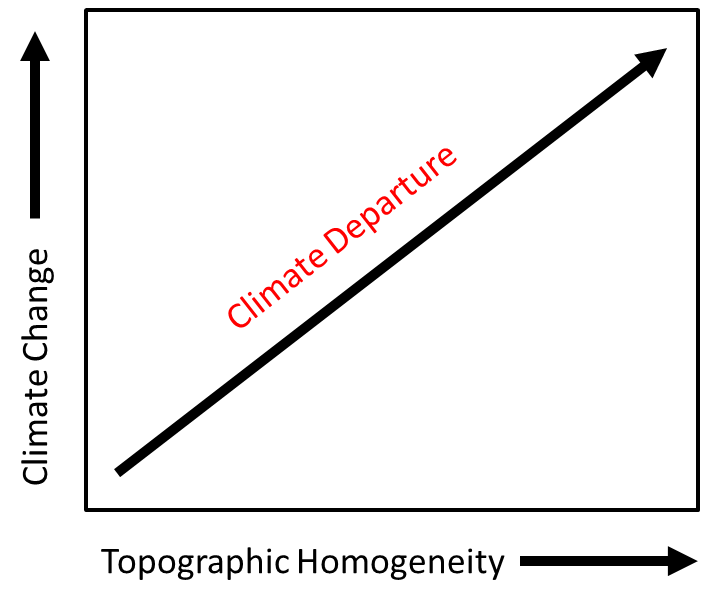
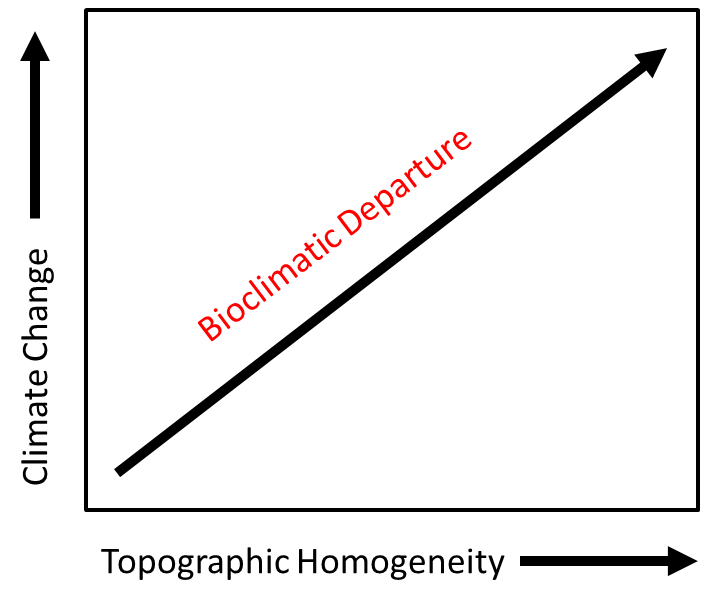
Change Climate Departure to Bioclimatic Departure

Changed region(s): [[0.272, 0.2079, 0.6648, 0.5644]]

diff --git a/static/help/bioclimatic_variables.html b/static/help/bioclimatic_variables.html
@@ -6,7 +6,7 @@
 <div style="width:100%; height: 100%; color: #666666; font-family: 'Lucida Grande', 'Lucida Sans Unicode', Arial, Helvetica, sans-serif; font-size: 16px; overflow-y:auto; overflow-x:hidden">
 <div style="width:710px; margin-left:auto; margin-right:auto;">
 <br>
-For the selected area, Climate Departure helps answer the question...
+For the selected area, Bioclimatic Departure helps answer the question...
 <p>
 <div style="font-size:1.2em; color:#f03800">
 Will the climate that existed in the past exist in the future?  
@@ -26,13 +26,13 @@ Figure 2: In the past, the average max temperatures of the warmest month within 
 </td>
 </table>
 <p>
-The curves in the chart represent the distribution of cell values within the selected reporting unit for the stated climate model, bioclimatic variable, and time period. Climate Departure, as defined here, is a measure of the difference between the historical and future curves. Two future models were selected, a Hot/Wet model (CanESM2) and a Hot/Dry model (HadGEM2-ES).
+The curves in the chart represent the distribution of cell values within the selected reporting unit for the stated climate model, bioclimatic variable, and time period. Bioclimatic Departure, as defined here, is a measure of the difference between the historical and future curves. Two future models were selected, a Hot/Wet model (CanESM2) and a Hot/Dry model (HadGEM2-ES).
 <p>
-In figure 1 (<i>low </i> climate departure), there is a significant amount of overlap between the historical curves and the future curves. Where this is the case, the historical climate conditions within the reporting unit are expected to exist in the future (though not necessarily in the same locations within the reporting unit).
+In figure 1 (<i>low </i> biolimatic departure), there is a significant amount of overlap between the historical curves and the future curves. Where this is the case, the historical climate conditions within the reporting unit are expected to exist in the future (though not necessarily in the same locations within the reporting unit).
 <p>
-In figure 2 (<i>very high</i> climate departure), the future means deviate significantly from the historical means. In fact, there is no overlap between the historical curves and the future curves. This indicates that the historical climate conditions that existed in the selected reporting unit are not expected to exist in the future.
+In figure 2 (<i>very high</i> bioclimatic departure), the future means deviate significantly from the historical means. In fact, there is no overlap between the historical curves and the future curves. This indicates that the historical climate conditions that existed in the selected reporting unit are not expected to exist in the future.
 <p>
-Technically, climate departure is a measure of the number of standard deviations the projected future mean is from the historical mean.
+Technically, bioclimatic departure is a measure of the number of standard deviations the projected future mean is from the historical mean.
 This value, known as a standardized anomaly, is a Z-Score which is calculated as follows:
 <p>
 <div style="width:100%; text-align:center">
@@ -41,12 +41,12 @@ This value, known as a standardized anomaly, is a Z-Score which is calculated as
 <p>
 where d is the difference, xf is the mean of the variable in the future period, xh is the mean of the variable in the historical period, and sxh is the standard deviation of the variable in the historical period.
 <p>
-We then characterize the climate departure for each variable as ranging from "Very Low" to "Very High" using the breaks shown in the table below:
+We then characterize the bioclimatic departure for each variable as ranging from "Very Low" to "Very High" using the breaks shown in the table below:
 <p>
 <div style="width:100%; text-align:center">
 <table class="info_table">
 <tr>
-<th style="color:black"># of Standard Deviations <br>from the Historical</th><th style="color:black">Climate Departure</th></tr>
+<th style="color:black"># of Standard Deviations <br>from the Historical</th><th style="color:black">Bioclimatic Departure</th></tr>
 <tr><td style="color:black; background-color: #F36A6C"> > 3.5 </td><td style="color:black; background-color: #F36A6C"> Very High</td></tr>
 <tr><td style="color:black; background-color: #FDAE61"> 2.5 - 3.5 </td><td style="color:black; background-color: #FDAE61">High</td></tr>
 <tr><td style="color:black; background-color: #FFFFBF"> 1.5 - 2.5 </td><td style="color:black; background-color: #FFFFBF">Moderate</td></tr>
@@ -56,7 +56,7 @@ We then characterize the climate departure for each variable as ranging from "Ve
 </div>
 <p>
 <br>
-We then take the mean average of all twelve climate departure scores (6 bioclimatic variables * 2 climate models). The arrow next to the "Average Climate Departure" bar indicates what that average departure score is for the selected reporting unit:  
+We then take the mean average of all twelve bioclimatic departure scores (6 bioclimatic variables * 2 climate models). The arrow next to the "Average Departure" bar indicates what that average departure score is for the selected reporting unit:
 <p>
 <br>
 <div style="width:100%; text-align:center">
@@ -65,16 +65,16 @@ We then take the mean average of all twelve climate departure scores (6 bioclima
 <p>
 <br>
 <div style="font-size:1.2em; color:#f03800">
-Climate Departure vs. Climate Change 
+Bioclimatic Departure vs. Climate Change
 </div>
 <p>
-Climate Departure is not the same thing as Climate Change. Although all else being equal, lower levels of climate change will contribute to a lower climate departure value. A climate departure value of "Very Low" should be interpreted to mean that the historical climate conditions that existed in the past in the selected reporting unit are expected to exist in the future somewhere in the same reporting unit, although not necessarily in the same locations within that reporting unit. For example, within a selected county, the temperatures that historically existed at lower elevations, may still exist in the same county in the future, but only at higher elevations. In general, reporting units with higher topographic diversity and lower levels of climate change will tend to have lower climate departure values than flat, topographically homogeneous reporting units with high levels of projected climate change.
+Bioclimatic Departure is not the same thing as Climate Change. Although all else being equal, lower levels of climate change will contribute to a lower bioclimatic departure value. A bioclimatic departure value of "Very Low" should be interpreted to mean that the historical climate conditions that existed in the past in the selected reporting unit are expected to exist in the future somewhere in the same reporting unit, although not necessarily in the same locations within that reporting unit. For example, within a selected county, the temperatures that historically existed at lower elevations, may still exist in the same county in the future, but only at higher elevations. In general, reporting units with higher topographic diversity and lower levels of climate change will tend to have lower bioclimatic departure values than flat, topographically homogeneous reporting units with high levels of projected climate change.
 <p>
 <br>
 <div style="width:100%; text-align:center">
 <img style="margin-left:auto; margin-right:auto; width:400px" src="http://climateconsole.org/static_climate_console/help/img/climate_departure.png">
 </div>
-<span style="font-size:.8em">Figure 3: Higher levels of climate change and more topographic homogeneity = higher climate departure </span>
+<span style="font-size:.8em">Figure 3: Higher levels of climate change and more topographic homogeneity = higher bioclimatic departure </span>
 <p>
 <!--
 The curves that appear in the chart show the distribution of cell values within the selected area for a set of bioclimatic variables for the historical period (1971-2000) as well as two future time periods (2016-2045 and 2046-2075). Two future models were selected, a Hot/Wet model (CanESM2) and a Hot/Dry model (HadGEM2-ES). 

diff --git a/CA_Climate_Console_App/templates/ca2.html b/CA_Climate_Console_App/templates/ca2.html
@@ -482,7 +482,7 @@
                     <img title="Click for help" class="tab_help" src="{{STATIC_URL}}img/help2.png" onclick="load_help_content('Bioclimatic Variables', 'bioclimatic_variables.html')">
                 </div>
                 -->
-                <span class="selected_watershed_icon"></span>Climate Departure & Vegetation Outlook<img class="collapse_icon rotate90" src="{{STATIC_URL}}img/collapse_down_arrow.png">
+                <span class="selected_watershed_icon"></span>Bioclimatic Departure & Vegetation Outlook<img class="collapse_icon rotate90" src="{{STATIC_URL}}img/collapse_down_arrow.png">
             </div>
             <div id="macrogroup_dropdown_container" class="collapsible_div" style="display:none">
                 Select a Vegetation Type:
@@ -508,7 +508,7 @@
                     <option value='M110' class='macrogroup_option' >California Foothill and Coastal Rock Outcrop Vegetation</option>
                     <option value='M117' class='macrogroup_option' >Sparsely Vegetated Desert Dune</option>
                 </select>
-                <div onclick="load_help_content('Climate Departure', 'bioclimatic_variables.html')" id="learn_more_departure" class="learn_more">Learn more... </div>
+                <div onclick="load_help_content('Bioclimatic Departure', 'bioclimatic_variables.html')" id="learn_more_departure" class="learn_more">Learn more... </div>
             </div>
             <div class="collapsible_div" style="display:none">
             <div class="loading" id="loading_departure">
@@ -521,7 +521,7 @@
                     <div id="mean_departure_div">
                         <table id="mean_departure_table">
                             <tr>
-                                <th title="The average climate departure value indicates the extent to which the future curves in the charts to the right deviate from the historical curves.  A very high climate departure value indicates that the historical climate conditions within the selected reporting unit will not exist in the future. Click the 'Learn more' link to learn more.">Average Climate Departure</th>
+                                <th title="The average climate departure value indicates the extent to which the future curves in the charts to the right deviate from the historical curves.  A very high climate departure value indicates that the historical climate conditions within the selected reporting unit will not exist in the future. Click the 'Learn more' link to learn more.">Average Departure</th>
                             </tr>
                             <tr>
                                 <!--<td title="Very High: The historical climate conditions within this reporting unit will likely not exist in the future. In the charts to the right, you will notice little to no overlap between the historical and future curves.">Very High</td>-->

diff --git a/static/Leaflet/my_leaflet/2.0/leaflet_map.js b/static/Leaflet/my_leaflet/2.0/leaflet_map.js
@@ -1695,7 +1695,7 @@ function create_charts(results_json_group, table_name, sub_title, show_in_legend
 
         }
 
-        var subtitle = "<div class='histogram_subtitle'><span id='hadgem2_departure_label'><img class='climate_exposure_icon' src='" + static_url + "img/hadgem2_es_departure_icon.png'></span> Climate Departure is <b>" + departure_hadgem2_es_text + "</b> (Z="  + departure_hadgem2_es.toFixed(1)  + ")" + "<br><span id='canesm2_departure_label' ><img class='climate_exposure_icon' src='" + static_url + "img/canesm2_departure_icon.png'></span> Climate Departure is <b>" + departure_canesm2_text + " </b>(Z=" + departure_canesm2.toFixed(1) + ")</div>";
+        var subtitle = "<div class='histogram_subtitle'><span id='hadgem2_departure_label'><img class='climate_exposure_icon' src='" + static_url + "img/hadgem2_es_departure_icon.png'></span> Bioclimatic Departure is <b>" + departure_hadgem2_es_text + "</b> (Z="  + departure_hadgem2_es.toFixed(1)  + ")" + "<br><span id='canesm2_departure_label' ><img class='climate_exposure_icon' src='" + static_url + "img/canesm2_departure_icon.png'></span> Bioclimatic Departure is <b>" + departure_canesm2_text + " </b>(Z=" + departure_canesm2.toFixed(1) + ")</div>";
         chart.setTitle(null, { text: subtitle});
 
         var layer_id;

diff --git a/static/css/2.0/base.css b/static/css/2.0/base.css
@@ -2707,7 +2707,7 @@ margin-bottom: 5px;
 	border-right: 1px solid #E7E7E7;
 	background-color: white;
 	display: table-cell;
-	top: 18px;
+	top: 25px;
 	vertical-align: top;
 	position: relative;
 }
